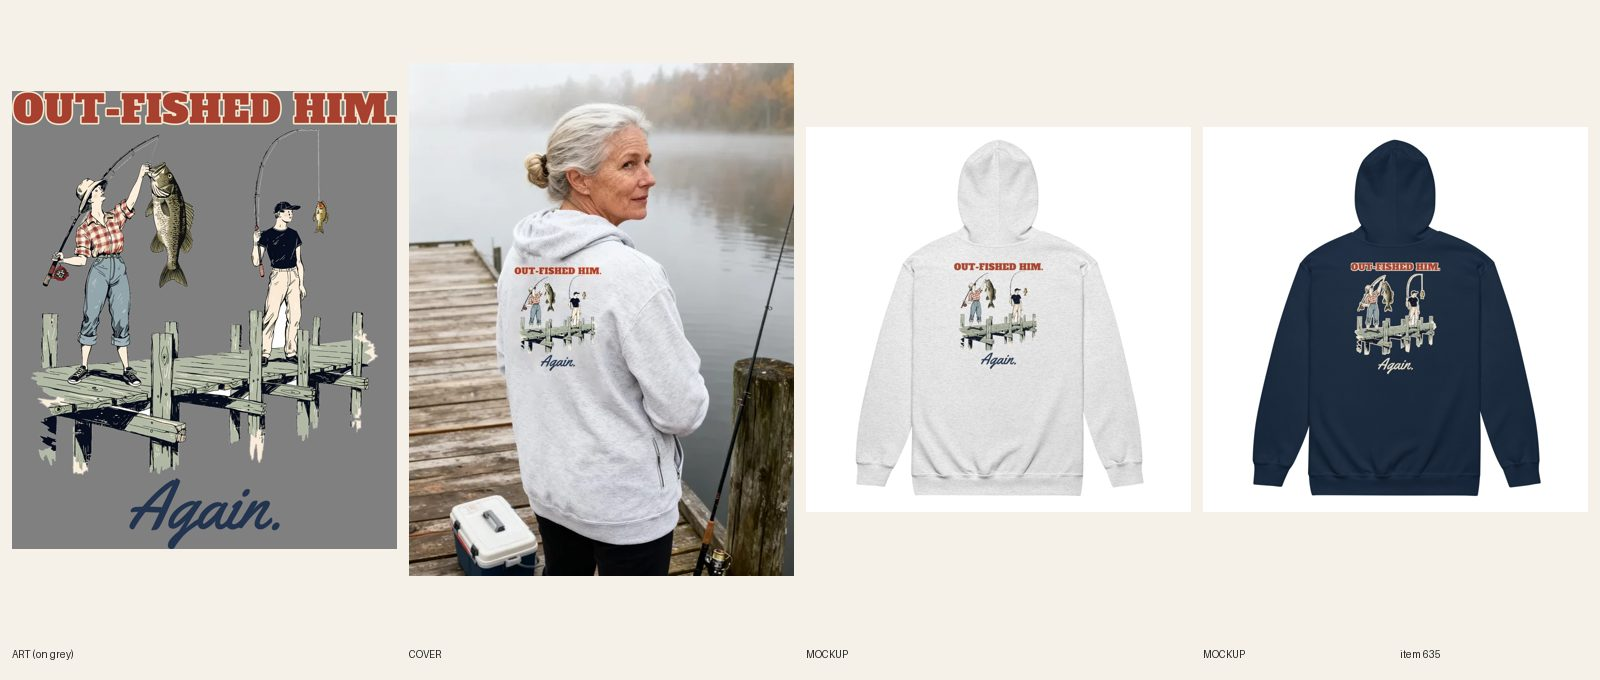
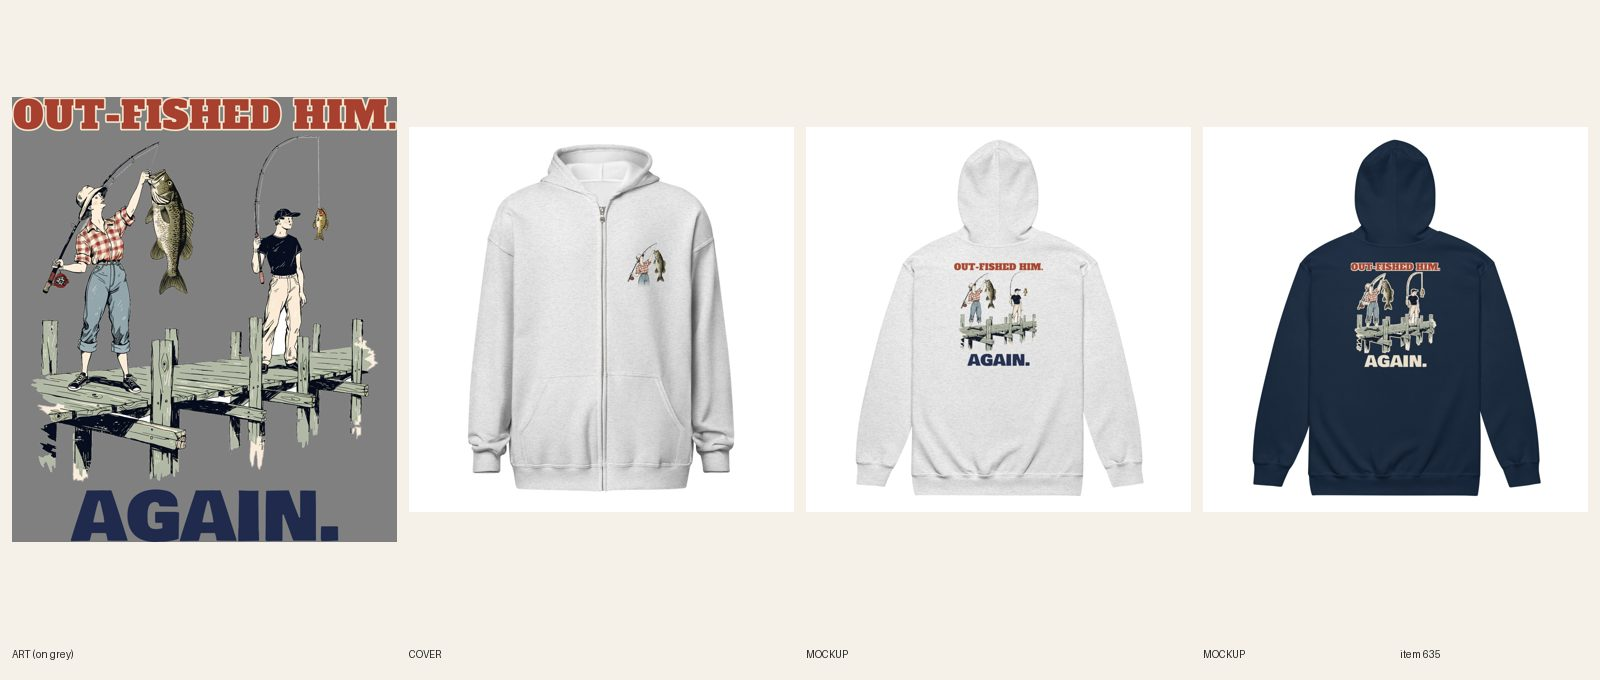
[C] review 635 (redo)

Changed region(s): [[0.0, 0.0926, 0.5, 0.8647], [0.8438, 0.4015, 0.9062, 0.5559], [0.5938, 0.4941, 0.6562, 0.5559]]

diff --git a/designs/c635/build.py b/designs/c635/build.py
@@ -1,0 +1,24 @@
+#!/usr/bin/env python3
+"""#635 zip hoodie: type-only redo. Keeps headline + art from the live print files; AGAIN. re-set heavy (Bowlby One caps).
+usage: build.py <dark|light>"""
+import sys
+from PIL import Image, ImageDraw, ImageFont
+mode = sys.argv[1]
+src = {'dark': ('docs/print-files/635-out-fished-dark-ink.png', (0, 304), (334, 3424)),
+       'light': ('docs/print-files/635-out-fished-light-ink.png', (0, 319), (425, 3545))}[mode]
+a = Image.open(src[0]).convert('RGBA'); W = a.width
+head = a.crop((0, src[1][0], W, src[1][1])); art = a.crop((0, src[2][0], W, src[2][1]))
+fill = '#1f2a4d' if mode == 'dark' else '#f3e9d2'
+f = ImageFont.truetype('designs/fonts/BowlbyOne-Regular.ttf', 600)
+size = 600
+while f.getbbox('AGAIN.')[2] - f.getbbox('AGAIN.')[0] > int(W * 0.78): size -= 10; f = ImageFont.truetype('designs/fonts/BowlbyOne-Regular.ttf', size)
+bb = f.getbbox('AGAIN.'); t = Image.new('RGBA', (bb[2] + 80, bb[3] + 80), (0, 0, 0, 0))
+d = ImageDraw.Draw(t)
+if mode == 'light': d.text((30, 30), 'AGAIN.', font=f, fill=fill, stroke_width=0)
+else: d.text((30, 30), 'AGAIN.', font=f, fill=fill)
+t = t.crop(t.getbbox())
+c = Image.new('RGBA', (W, head.height + 40 + art.height + 70 + t.height), (0, 0, 0, 0))
+c.alpha_composite(head, (0, 0)); c.alpha_composite(art, (0, head.height + 40))
+c.alpha_composite(t, ((W - t.width) // 2, head.height + 40 + art.height + 70))
+c = c.crop(c.getbbox()); c.save(f'docs/print-files/635-out-fished-{mode}-v2.png', dpi=(300, 300))
+print(mode, c.size, 'headline h', head.height, 'again h', t.height)

diff --git a/docs/pipeline/635-fishing-womens-zip-hoodie-out-fished-him-again.md b/docs/pipeline/635-fishing-womens-zip-hoodie-out-fished-him-again.md
@@ -1,4 +1,4 @@
-status: BUILDING [C] 2026-10-20 17:15 UTC
+status: REVIEW
 shopify: gid://shopify/Product/15364909367600
 lane: C
 type: twin
@@ -29,3 +29,4 @@ kd: 4
 - 2026-10-18 08:09 UTC builder [C]: Printful relink verified 12/12 (6 Ash: back 1088686604 + chest 1088760770; 6 Navy: back 1088760761 + chest 1088760778); REVIEW.
 - 2026-10-18 08:19 UTC director: LIVE. Sheet reviewed (R3, R4/R5, R6, R8, R13.3); copy OK. ACTIVE + Online Store, Headless, Google & YouTube; cohesion-audit --handle PASS 0 warn.
 - 2026-10-18 17:22 UTC director: QUALITY RESET grade B (type only), REDO. The product stays ACTIVE (same handle, URL, title keyword). Keep the line "Out-Fished Him. / Again." and the art. 1. Type: "Again." thin navy script ~40% width, vanishes on navy garment. 2. Quality reset type bar (docs/backlog/quality-reset.md, 'The new bar'): headline at least 90% of the art width, heavy, colors pulled from the art; second line at least 45% of the headline's height, never a thin script on a dark or mid garment; use the lettering as a shape (arch, stacked lockup, words breaking into the art), not a plain bar above and a script line below; no font used on more than 1 in 6 of the last 30 designs. 3. New print file means a new cover per R6.10 and a fresh review sheet (R7.7). While quality-reset.md says PAUSED, only lane A builds, and only the samples step 2 names.
+- 2026-10-20 17:40 UTC builder [C]: REDO 635 type only (B grade). designs/c635/build.py: same headline (OUT-FISHED HIM., heavy Alfa Slab faded red, already full art width) and same art; "Again." thin navy script replaced by AGAIN. in Bowlby One caps (469 px tall vs 304 px headline = 154%, 78% of art width), navy #1f2a4d on Ash, cream #f3e9d2 on Navy (light file keeps the cream halo around the figures). Files: dark 1090515189 (3435x3973), light 1090515215 (3435x4018); chest files unchanged (1088760770 Ash, 1088760778 Navy, no words). BW 1560 BT 225 CW 525; print 1,805 px high Ash / 1,825 Navy inside 2,400. Light file logged: Navy on 1090515215, headline fill red with cream keyline, AGAIN. fill cream. Relinked 12/12 via pf-zip.py. 2 back mockups replaced in place (fileUpdate); phone-size read of both backs: OUT-FISHED HIM., both anglers, the bass and AGAIN. clear on Ash and Navy. Copy already said "big, bold AGAIN." so unchanged. Plain product shot (handle in retired-covers.json). audit --handle PASS 0 warn. fal $0. Sheet docs/review/635.jpg.

diff --git a/docs/intake-log.md b/docs/intake-log.md
@@ -1,6 +1,6 @@
 RUNNING lane B since 2026-10-20 17:06 UTC
-RUNNING lane C since 2026-10-20 17:05 UTC
 2026-10-20 17:02 UTC — [A] Builder run: #616 Drew Your Name. Panicked. tee, copy-only REDO (keyword to office christmas shirt, SEO title/meta/line one fixed). REVIEW. fal $0.
+2026-10-20 17:41 UTC — [C] Builder run: redid #635 Women's Fishing Out-Fished Him. Again. zip hoodie (type only: AGAIN. heavy Bowlby One navy/cream replaces thin script, same art, BW 1560, Ash file 1090515189, Navy light file 1090515215, 12/12 relinked, 2 backs replaced in place, plain product shot). REVIEW. fal $0. 1 redo per run cap reached.
 RUNNING lane E since 2026-10-20 16:22 UTC
 2026-10-20 16:51 UTC — [A] Builder run: #732 Christmas Credits Baby bodysuit, 8/8 synced. REVIEW. fal $0.
 2026-10-20 16:49 UTC — [A] Builder run: #731 Christmas Credits Kid youth long sleeve, 6/6 synced. REVIEW. fal $0.
@@ -26,7 +26,6 @@ RUNNING lane B since 2026-10-20 16:10 UTC
 2026-10-20 15:39 UTC — [A] Builder run: copy-only REDOs #615 (favorite child shirt) and #721 (FAQ), REVIEW. fal $0.
 2026-10-20 15:38 UTC — [A] Builder run: #720 Frenchie Silent Night crewneck (twin of #719), 12/12 synced. REVIEW. fal $0.
 2026-10-20 15:36 UTC — [A] Builder run: #719 Frenchie Silent Night. Except the Snoring. tee, 48/48 synced. REVIEW. fal $0.
-RUNNING lane C since 2026-10-20 15:08 UTC
 2026-10-20 15:36 UTC — [B] Builder run: redid #498 Psalm 121 embroidered crewneck (PSALM 121:1 caps 0.33 in, was 0.28 in; stitch 3.17 x 3.92 in, 12/12 synced). REVIEW. fal $0.
 2026-10-20 15:54 UTC — [E] Builder run: REDO #658 HVAC tee: new art (both hands, tired face), line IT'S ALWAYS / THE FILTER. (punch 110% of headline, subject 52%), 56/56 synced, title/SEO/copy/mockups updated. REVIEW. fal $0.04. Lane E lock released. Lane E queue left: #704 and #722/#723 READY (hoodies), #705-#718 PARKED by director (R5.2 proof gate).
 2026-10-20 15:28 UTC — [A] Builder run: #696 dance mom crewneck (twin of #534), 11/11 synced. REVIEW. fal $0.
